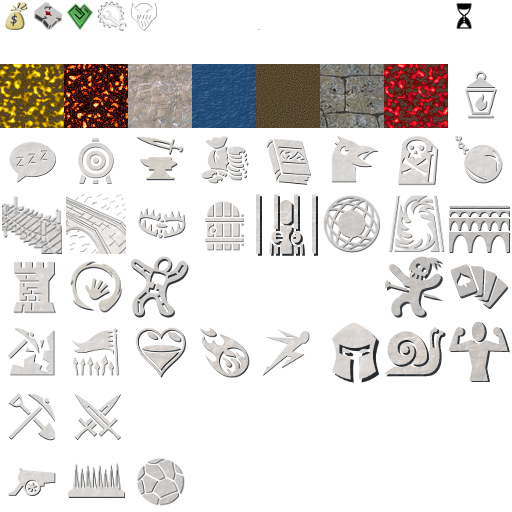
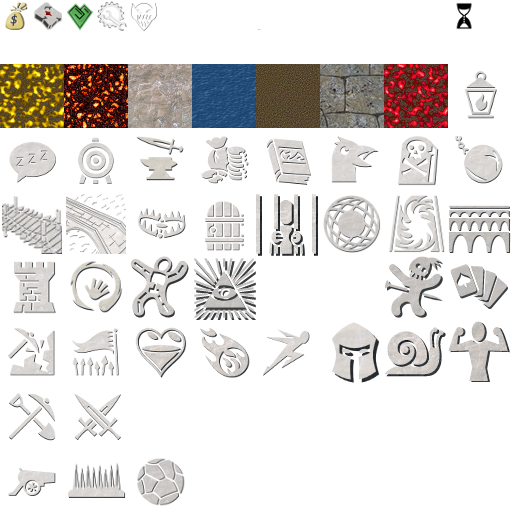
Implemented eye of evil spell

Changed region(s): [[0.375, 0.5, 0.5, 0.625]]

diff --git a/source/spells/SpellEyeEvil.cpp b/source/spells/SpellEyeEvil.cpp
@@ -1,0 +1,182 @@
+/*
+ *  Copyright (C) 2011-2016  OpenDungeons Team
+ *
+ *  This program is free software: you can redistribute it and/or modify
+ *  it under the terms of the GNU General Public License as published by
+ *  the Free Software Foundation, either version 3 of the License, or
+ *  (at your option) any later version.
+ *
+ *  This program is distributed in the hope that it will be useful,
+ *  but WITHOUT ANY WARRANTY; without even the implied warranty of
+ *  MERCHANTABILITY or FITNESS FOR A PARTICULAR PURPOSE.  See the
+ *  GNU General Public License for more details.
+ *
+ *  You should have received a copy of the GNU General Public License
+ *  along with this program.  If not, see <http://www.gnu.org/licenses/>.
+ */
+
+#include "spells/SpellEyeEvil.h"
+
+#include "entities/Creature.h"
+#include "entities/Tile.h"
+#include "game/Player.h"
+#include "game/Seat.h"
+#include "gamemap/GameMap.h"
+#include "modes/InputCommand.h"
+#include "modes/InputManager.h"
+#include "network/ODClient.h"
+#include "spells/SpellManager.h"
+#include "utils/ConfigManager.h"
+#include "utils/Helper.h"
+#include "utils/LogManager.h"
+
+const std::string SpellEyeEvilName = "eyeEvil";
+const std::string SpellEyeEvilNameDisplay = "Eye of Evil";
+const std::string SpellEyeEvilCooldownKey = "EyeEvilCooldown";
+const SpellType SpellEyeEvil::mSpellType = SpellType::eyeEvil;
+
+namespace
+{
+class SpellEyeEvilFactory : public SpellFactory
+{
+    SpellType getSpellType() const override
+    { return SpellEyeEvil::mSpellType; }
+
+    const std::string& getName() const override
+    { return SpellEyeEvilName; }
+
+    const std::string& getCooldownKey() const override
+    { return SpellEyeEvilCooldownKey; }
+
+    const std::string& getNameReadable() const override
+    { return SpellEyeEvilNameDisplay; }
+
+    virtual void checkSpellCast(GameMap* gameMap, const InputManager& inputManager, InputCommand& inputCommand) const override
+    { SpellEyeEvil::checkSpellCast(gameMap, inputManager, inputCommand); }
+
+    virtual bool castSpell(GameMap* gameMap, Player* player, ODPacket& packet) const override
+    { return SpellEyeEvil::castSpell(gameMap, player, packet); }
+
+    Spell* getSpellFromStream(GameMap* gameMap, std::istream &is) const override
+    { return SpellEyeEvil::getSpellFromStream(gameMap, is); }
+
+    Spell* getSpellFromPacket(GameMap* gameMap, ODPacket &is) const override
+    { return SpellEyeEvil::getSpellFromPacket(gameMap, is); }
+};
+
+// Register the factory
+static SpellRegister reg(new SpellEyeEvilFactory);
+}
+
+SpellEyeEvil::SpellEyeEvil(GameMap* gameMap) :
+    Spell(gameMap, SpellManager::getSpellNameFromSpellType(getSpellType()), "FlyingSkull", 0.0,
+        ConfigManager::getSingleton().getSpellConfigInt32("EyeEvilNbTurns"))
+{
+    mPrevAnimationState = "Triggered";
+    mPrevAnimationStateLoop = true;
+}
+
+SpellEyeEvil::~SpellEyeEvil()
+{
+}
+
+void SpellEyeEvil::computeVisibleTiles()
+{
+    uint32_t radius = ConfigManager::getSingleton().getSpellConfigUInt32("EyeEvilRadiusTiles");
+    Tile* posTile = getPositionTile();
+    if(posTile == nullptr)
+    {
+        OD_LOG_ERR("name=" + getName() + ", position=" + Helper::toString(getPosition()));
+        return;
+    }
+
+    std::vector<Tile*> tiles = getGameMap()->circularRegion(posTile->getX(), posTile->getY(), radius);
+    for(Tile* tile : tiles)
+        tile->notifyVision(getSeat());
+}
+
+void SpellEyeEvil::checkSpellCast(GameMap* gameMap, const InputManager& inputManager, InputCommand& inputCommand)
+{
+    Player* player = gameMap->getLocalPlayer();
+
+    Tile* tile = gameMap->getTile(inputManager.mXPos, inputManager.mYPos);
+    if(tile == nullptr)
+        return;
+
+    int32_t playerMana = static_cast<int32_t>(player->getSeat()->getMana());
+    int32_t price = ConfigManager::getSingleton().getSpellConfigInt32("EyeEvilPrice");
+    if(inputManager.mCommandState == InputCommandState::infoOnly)
+    {
+        if(playerMana < price)
+        {
+            std::string txt = formatCastSpell(SpellType::eyeEvil, price);
+            inputCommand.displayText(Ogre::ColourValue::Red, txt);
+        }
+        else
+        {
+            std::string txt = formatCastSpell(SpellType::eyeEvil, price);
+            inputCommand.displayText(Ogre::ColourValue::White, txt);
+        }
+        inputCommand.selectSquaredTiles(inputManager.mXPos, inputManager.mYPos, inputManager.mXPos,
+            inputManager.mYPos);
+        return;
+    }
+
+    if(inputManager.mCommandState == InputCommandState::building)
+    {
+        std::string txt = formatCastSpell(SpellType::eyeEvil, price);
+        inputCommand.displayText(Ogre::ColourValue::White, txt);
+        std::vector<Tile*> tiles;
+        tiles.push_back(tile);
+        inputCommand.selectTiles(tiles);
+        return;
+    }
+
+    inputCommand.unselectAllTiles();
+
+    ClientNotification *clientNotification = SpellManager::createSpellClientNotification(SpellType::eyeEvil);
+    gameMap->tileToPacket(clientNotification->mPacket, tile);
+
+    ODClient::getSingleton().queueClientNotification(clientNotification);
+}
+
+bool SpellEyeEvil::castSpell(GameMap* gameMap, Player* player, ODPacket& packet)
+{
+    Tile* tile = gameMap->tileFromPacket(packet);
+    if(tile == nullptr)
+        return false;
+
+    int32_t playerMana = static_cast<int32_t>(player->getSeat()->getMana());
+    int32_t manaCost = ConfigManager::getSingleton().getSpellConfigInt32("EyeEvilPrice");
+    if(playerMana < manaCost)
+        return false;
+
+    if(!player->getSeat()->takeMana(manaCost))
+        return false;
+
+    SpellEyeEvil* spell = new SpellEyeEvil(gameMap);
+    spell->setSeat(player->getSeat());
+    spell->addToGameMap();
+    Ogre::Vector3 spawnPosition(static_cast<Ogre::Real>(tile->getX()),
+                                static_cast<Ogre::Real>(tile->getY()),
+                                static_cast<Ogre::Real>(3.0));
+    spell->createMesh();
+    spell->setPosition(spawnPosition);
+
+    return true;
+}
+
+Spell* SpellEyeEvil::getSpellFromStream(GameMap* gameMap, std::istream &is)
+{
+    SpellEyeEvil* spell = new SpellEyeEvil(gameMap);
+    spell->importFromStream(is);
+    return spell;
+}
+
+Spell* SpellEyeEvil::getSpellFromPacket(GameMap* gameMap, ODPacket &is)
+{
+    SpellEyeEvil* spell = new SpellEyeEvil(gameMap);
+    spell->importFromPacket(is);
+    return spell;
+}
+

diff --git a/source/spells/SpellEyeEvil.h b/source/spells/SpellEyeEvil.h
@@ -1,0 +1,48 @@
+/*
+ *  Copyright (C) 2011-2016  OpenDungeons Team
+ *
+ *  This program is free software: you can redistribute it and/or modify
+ *  it under the terms of the GNU General Public License as published by
+ *  the Free Software Foundation, either version 3 of the License, or
+ *  (at your option) any later version.
+ *
+ *  This program is distributed in the hope that it will be useful,
+ *  but WITHOUT ANY WARRANTY; without even the implied warranty of
+ *  MERCHANTABILITY or FITNESS FOR A PARTICULAR PURPOSE.  See the
+ *  GNU General Public License for more details.
+ *
+ *  You should have received a copy of the GNU General Public License
+ *  along with this program.  If not, see <http://www.gnu.org/licenses/>.
+ */
+
+#ifndef SPELLEYEEVIL_H
+#define SPELLEYEEVIL_H
+
+#include "spells/Spell.h"
+#include "spells/SpellType.h"
+
+class GameMap;
+class InputCommand;
+class InputManager;
+
+class SpellEyeEvil : public Spell
+{
+public:
+    SpellEyeEvil(GameMap* gameMap);
+    virtual ~SpellEyeEvil();
+
+    SpellType getSpellType() const override
+    { return SpellType::eyeEvil; }
+
+    void computeVisibleTiles() override;
+
+    static void checkSpellCast(GameMap* gameMap, const InputManager& inputManager, InputCommand& inputCommand);
+    static bool castSpell(GameMap* gameMap, Player* player, ODPacket& packet);
+
+    static Spell* getSpellFromStream(GameMap* gameMap, std::istream &is);
+    static Spell* getSpellFromPacket(GameMap* gameMap, ODPacket &is);
+
+    static const SpellType mSpellType;
+};
+
+#endif // SPELLEYEEVIL_H

diff --git a/source/game/SkillManager.cpp b/source/game/SkillManager.cpp
@@ -517,6 +517,15 @@ SkillManager::SkillManager() :
     def->mapSkill(mSkillsFamily);
     mSkills[index] = def;
     lvl4depends.push_back(skill);
+
+    resType = SkillType::spellEyeEvil;
+    index = static_cast<uint32_t>(resType);
+    points = ConfigManager::getSingleton().getSkillPoints(Skills::toString(resType));
+    skill = new Skill(resType, points, lvl3depends);
+    def = new SkillDefSpell("MagicSkills/", "SpellEyeEvilButton", skill, SpellType::eyeEvil);
+    def->mapSkill(mSkillsFamily);
+    mSkills[index] = def;
+    lvl4depends.push_back(skill);
 }
 
 SkillManager::~SkillManager()

diff --git a/source/spells/Spell.h b/source/spells/Spell.h
@@ -55,6 +55,10 @@ public:
 
     virtual void doUpkeep();
 
+    //! \brief Computes the visible tiles and tags them to know which are visible
+    virtual void computeVisibleTiles()
+    {}
+
     static void fireSpellSound(Tile& tile, const std::string& soundFamily);
 
     static std::string getSpellStreamFormat();

diff --git a/source/gamemap/GameMap.cpp b/source/gamemap/GameMap.cpp
@@ -1226,6 +1226,11 @@ unsigned long int GameMap::doMiscUpkeep(double timeSinceLastTurn)
         creature->computeVisibleTiles();
     }
 
+    for (Spell* spell : mSpells)
+    {
+        spell->computeVisibleTiles();
+    }
+
     for (Seat* seat : mSeats)
     {
         if(!seat->getIsDebuggingVision())

diff --git a/source/game/SkillType.h b/source/game/SkillType.h
@@ -59,6 +59,7 @@ enum class SkillType
     spellCreatureStrength,
     spellCreatureWeak,
     spellSummonWorker,
+    spellEyeEvil,
 
     // This should be the last
     countSkill

diff --git a/source/spells/SpellType.h b/source/spells/SpellType.h
@@ -35,6 +35,7 @@ enum class SpellType
     creatureSlow,
     creatureStrength,
     creatureWeak,
+    eyeEvil,
     nbSpells     // Must be the last in this enum
 };
 
